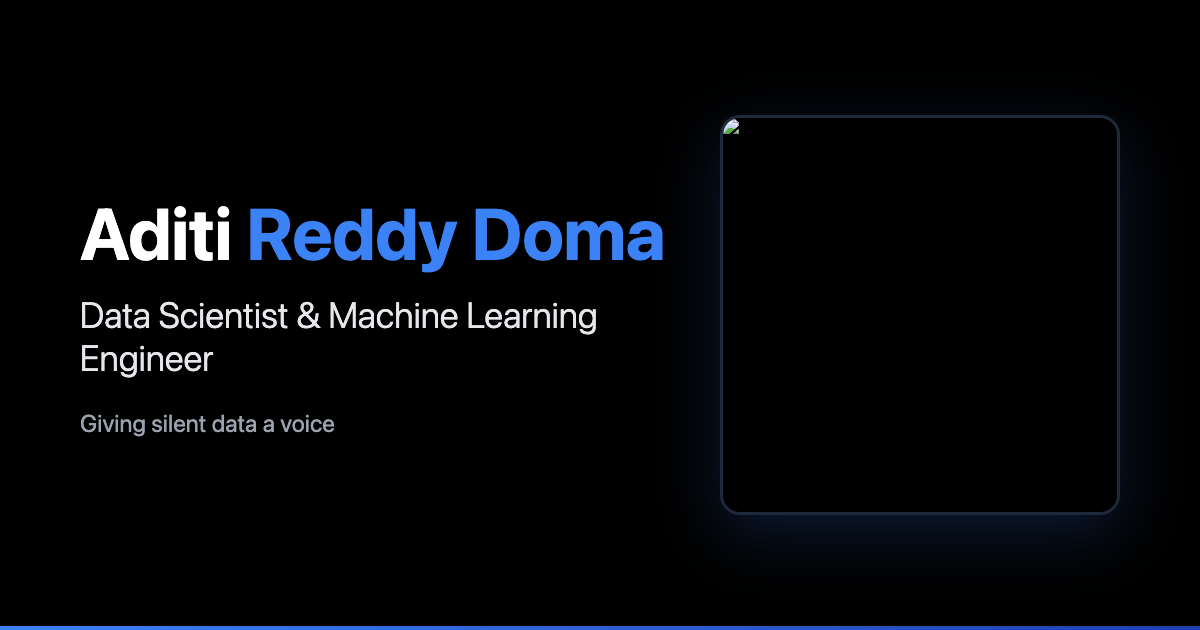
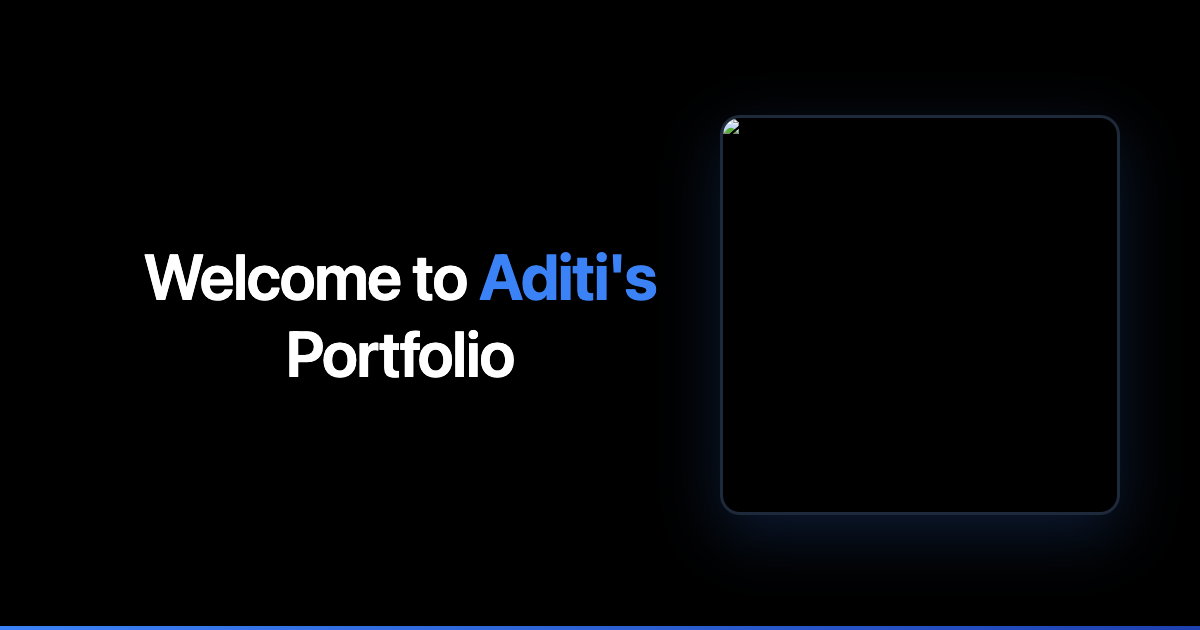
Update OG image to show 'Welcome to Aditi's Portfolio' professionally

Changed region(s): [[0.0617, 0.3317, 0.555, 0.6032], [0.0617, 0.6635, 0.2775, 0.6937]]

diff --git a/index.html b/index.html
@@ -11,8 +11,8 @@
     <meta property="og:url" content="https://aditireddy-d.github.io/Portfolio/" />
     <meta property="og:title" content="Aditi Reddy - Data Science Portfolio" />
     <meta property="og:description" content="Explore Aditi Reddy's comprehensive Data Science and Machine Learning portfolio featuring innovative projects in data analysis, predictive modeling, and AI solutions. Discover cutting-edge analytics and insights." />
-    <meta property="og:image" content="https://aditireddy-d.github.io/Portfolio/portfolio-og-image.png?v=6" />
-    <meta property="og:image:secure_url" content="https://aditireddy-d.github.io/Portfolio/portfolio-og-image.png?v=6" />
+    <meta property="og:image" content="https://aditireddy-d.github.io/Portfolio/portfolio-og-image.png?v=7" />
+    <meta property="og:image:secure_url" content="https://aditireddy-d.github.io/Portfolio/portfolio-og-image.png?v=7" />
     <meta property="og:image:type" content="image/png" />
     <meta property="og:image:width" content="1200" />
     <meta property="og:image:height" content="630" />
@@ -23,7 +23,7 @@
     <meta name="twitter:url" content="https://aditireddy-d.github.io/Portfolio/" />
     <meta name="twitter:title" content="Aditi Reddy - Data Science Portfolio" />
     <meta name="twitter:description" content="Explore Aditi Reddy's comprehensive Data Science and Machine Learning portfolio featuring innovative projects in data analysis, predictive modeling, and AI solutions." />
-    <meta name="twitter:image" content="https://aditireddy-d.github.io/Portfolio/portfolio-og-image.png?v=6" />
+    <meta name="twitter:image" content="https://aditireddy-d.github.io/Portfolio/portfolio-og-image.png?v=7" />
   </head>
   <body>
     <div id="root"></div>

diff --git a/scripts/create-og-image.js b/scripts/create-og-image.js
@@ -44,26 +44,17 @@ const html = `
       justify-content: center;
       color: white;
       z-index: 2;
+      text-align: center;
     }
-    .name {
-      font-size: 72px;
-      font-weight: 700;
-      margin-bottom: 20px;
-      line-height: 1.1;
+    .welcome-text {
+      font-size: 64px;
+      font-weight: 600;
+      line-height: 1.2;
+      letter-spacing: -0.02em;
     }
-    .name .highlight {
+    .welcome-text .name {
       color: #3b82f6;
-    }
-    .title {
-      font-size: 36px;
-      font-weight: 300;
-      color: #e5e7eb;
-      margin-bottom: 30px;
-    }
-    .tagline {
-      font-size: 24px;
-      color: #9ca3af;
-      font-weight: 400;
+      font-weight: 700;
     }
     .photo-wrapper {
       width: 400px;
@@ -91,9 +82,7 @@ const html = `
 </head>
 <body>
   <div class="left-content">
-    <div class="name">Aditi <span class="highlight">Reddy Doma</span></div>
-    <div class="title">Data Scientist & Machine Learning Engineer</div>
-    <div class="tagline">Giving silent data a voice</div>
+    <div class="welcome-text">Welcome to <span class="name">Aditi's</span> Portfolio</div>
   </div>
   <div class="photo-wrapper">
     <img src="file://${profilePhotoPath}" alt="Aditi Reddy" />
